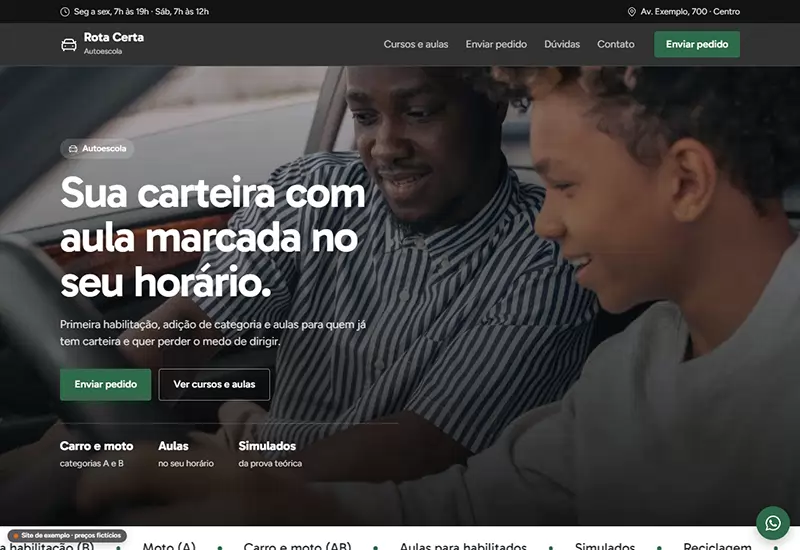
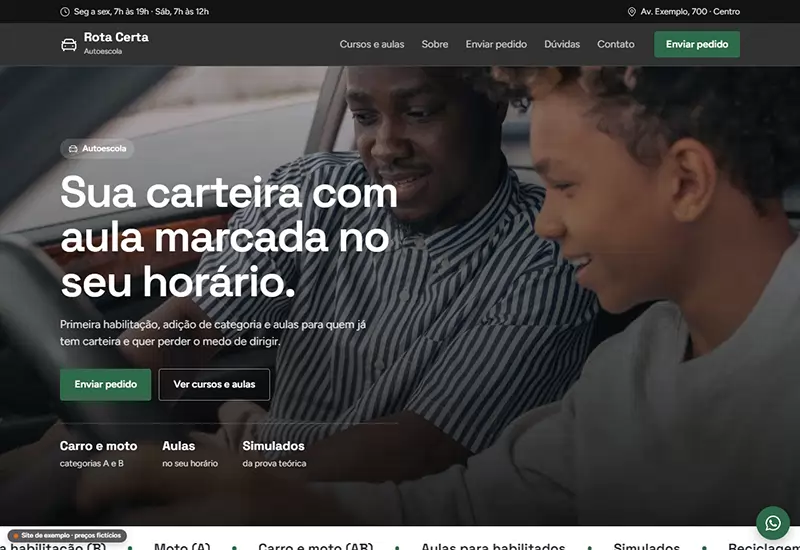
Modelos do molde, grupo serviços e educação (oficina, advocacia, idiomas, autoescola): fonte própria e seção Sobre; prévias refeitas

diff --git a/modelos/molde/negocios.js b/modelos/molde/negocios.js
@@ -591,6 +591,12 @@ export const NEGOCIOS = {
 
   oficina: {
     nome: 'Auto Center Torque', curto: 'Torque', tipo: 'Oficina mecânica', icone: 'wrench',
+    fonte: ['Barlow Condensed', '600;700'],
+    sobre: {
+      titulo: 'Você aprova o orçamento antes de qualquer serviço.',
+      texto: 'O carro passa por diagnóstico, você recebe o orçamento pelo WhatsApp com fotos das peças e só depois o serviço começa. Nada é trocado sem a sua aprovação.',
+      pontos: ['Orçamento por escrito antes do serviço', 'Fotos das peças trocadas', 'Garantia de 90 dias no serviço, como manda o Código do Consumidor']
+    },
     cores: ['#2A4A73', '#1E3655', '#E8EEF6'], layout: 'foto', reto: true, escuro: true,
     horario: 'Seg a sex, 8h às 18h · Sáb, 8h às 12h', endereco: 'Av. Exemplo, 2.300 · Distrito Industrial',
     selo: 'Oficina mecânica',
@@ -637,6 +643,13 @@ export const NEGOCIOS = {
 
   advocacia: {
     nome: 'Prado Advocacia', curto: 'Prado', tipo: 'Advocacia', icone: 'scale',
+    fonte: ['Libre Baskerville', '400;700'],
+    sobre: {
+      titulo: 'Atendimento jurídico com clareza e discrição.',
+      texto: 'Na primeira consulta, você entende a sua situação, os caminhos possíveis e os custos envolvidos. Cada caso é tratado com sigilo, como determina o Código de Ética da OAB.',
+      pontos: ['Sigilo profissional', 'Explicação em linguagem simples', 'Andamento do processo informado pelo WhatsApp'],
+      assinatura: 'Advogada · OAB/MG 000.000 (exemplo)'
+    },
     cores: ['#1F4D3F', '#173B30', '#EAF1EE'], layout: 'dividido', serif: true, reto: true,
     horario: 'Seg a sex, 9h às 18h', endereco: 'Av. Exemplo, 1.500 · sala 804 · Centro',
     selo: 'Advocacia · OAB/MG 000.000 (exemplo)',
@@ -682,6 +695,12 @@ export const NEGOCIOS = {
 
   idiomas: {
     nome: 'Fala Bem Idiomas', curto: 'Fala Bem', tipo: 'Escola de idiomas', icone: 'languages',
+    fonte: ['Manrope', '600;700;800'],
+    sobre: {
+      titulo: 'Turmas pequenas, para todo mundo falar na aula.',
+      texto: 'Com poucos alunos por turma, o professor ouve cada um e corrige na hora. As aulas usam situações do dia a dia: viagem, trabalho e conversa de verdade.',
+      pontos: ['Turmas pequenas', 'Conversação desde a primeira aula', 'Aula experimental gratuita']
+    },
     cores: ['#2F5DA8', '#244A86', '#EAF0FA'], layout: 'cartao',
     horario: 'Seg a sex, 8h às 21h · Sáb, 8h às 12h', endereco: 'Rua Exemplo, 400 · Centro',
     selo: 'Escola de idiomas',
@@ -728,6 +747,12 @@ export const NEGOCIOS = {
 
   autoescola: {
     nome: 'Autoescola Rota Certa', curto: 'Rota Certa', tipo: 'Autoescola', icone: 'car-front',
+    fonte: ['Space Grotesk', '600;700'],
+    sobre: {
+      titulo: 'Aprender a dirigir, sem pressão.',
+      texto: 'As aulas são marcadas no seu horário, com instrutores credenciados pelo Detran. Para quem tem medo de dirigir, há aulas extras com calma e no seu ritmo.',
+      pontos: ['Instrutores credenciados pelo Detran', 'Aula marcada pelo WhatsApp', 'Aulas para quem já tem carteira']
+    },
     cores: ['#2E6B4A', '#225238', '#E6F1EA'], layout: 'foto', reto: true, escuro: true,
     horario: 'Seg a sex, 7h às 19h · Sáb, 7h às 12h', endereco: 'Av. Exemplo, 700 · Centro',
     selo: 'Autoescola',
